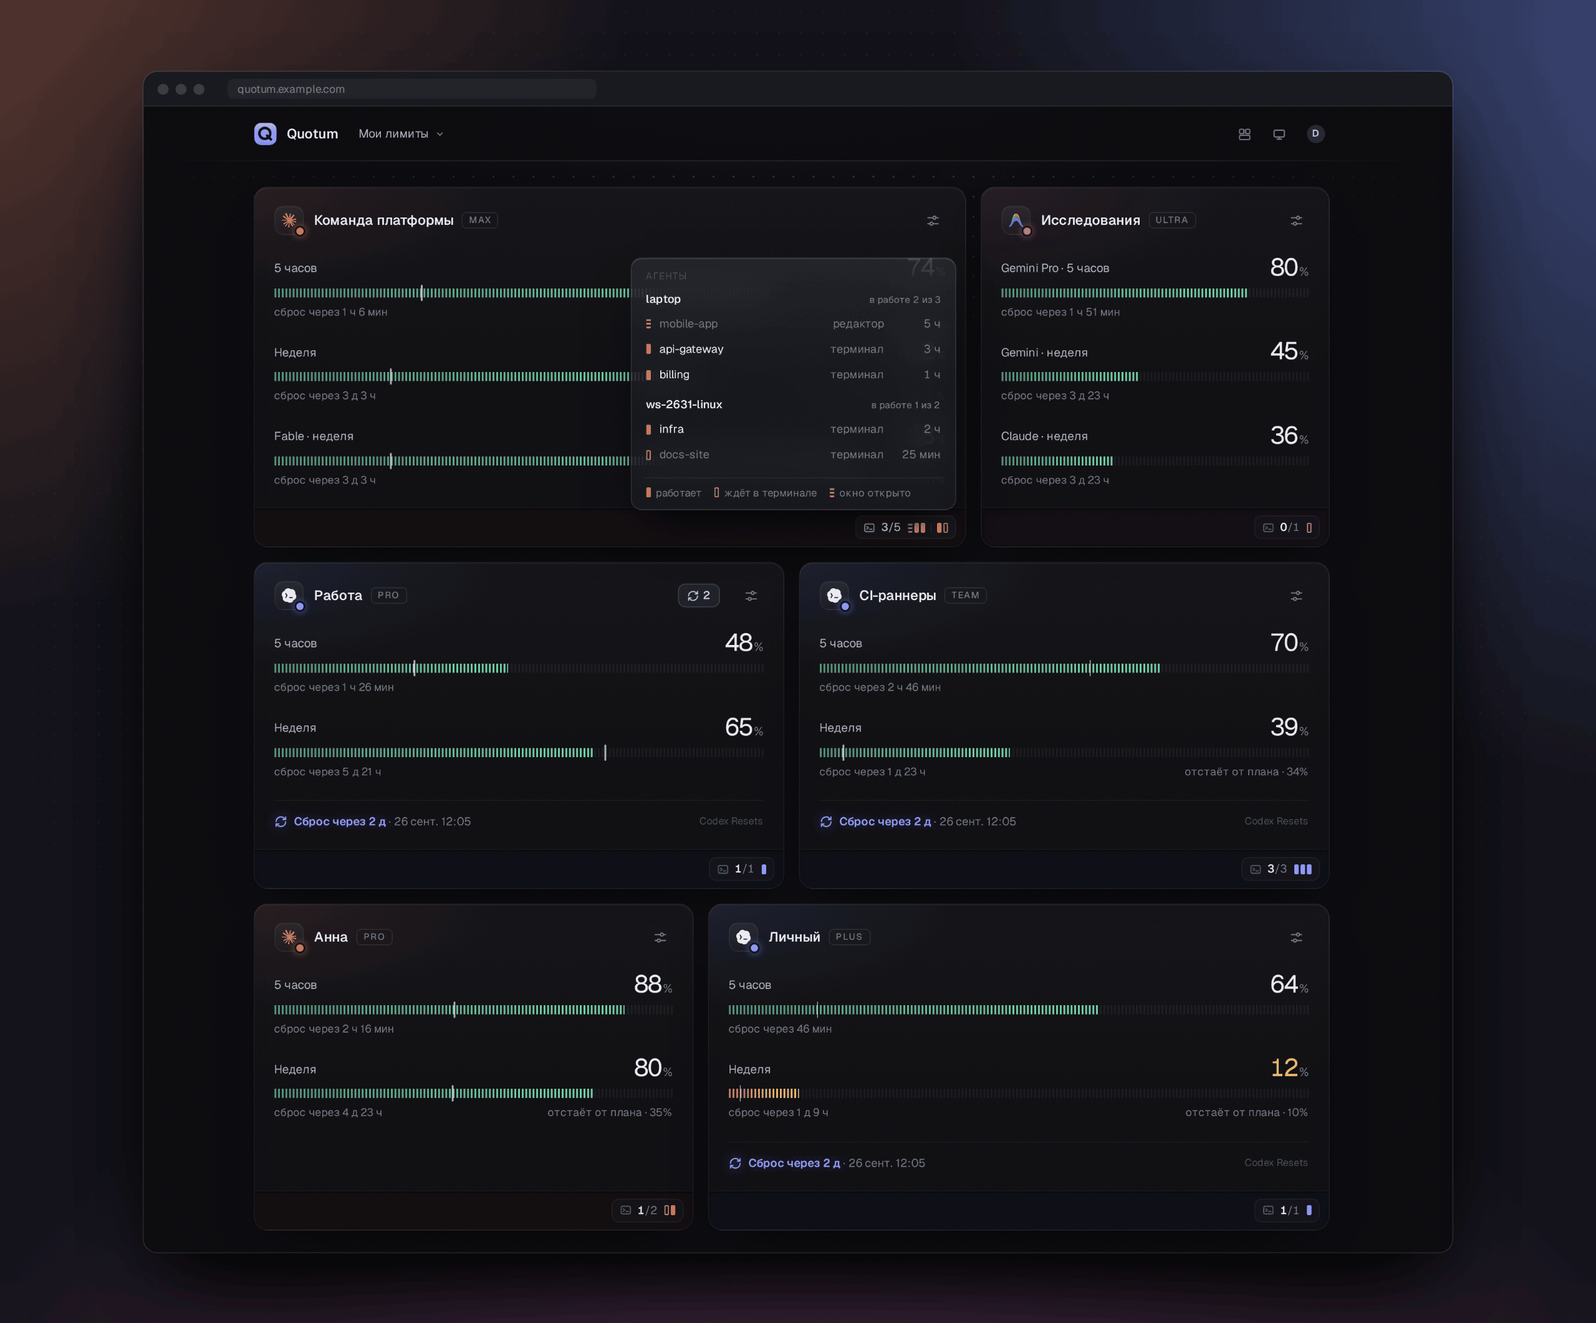
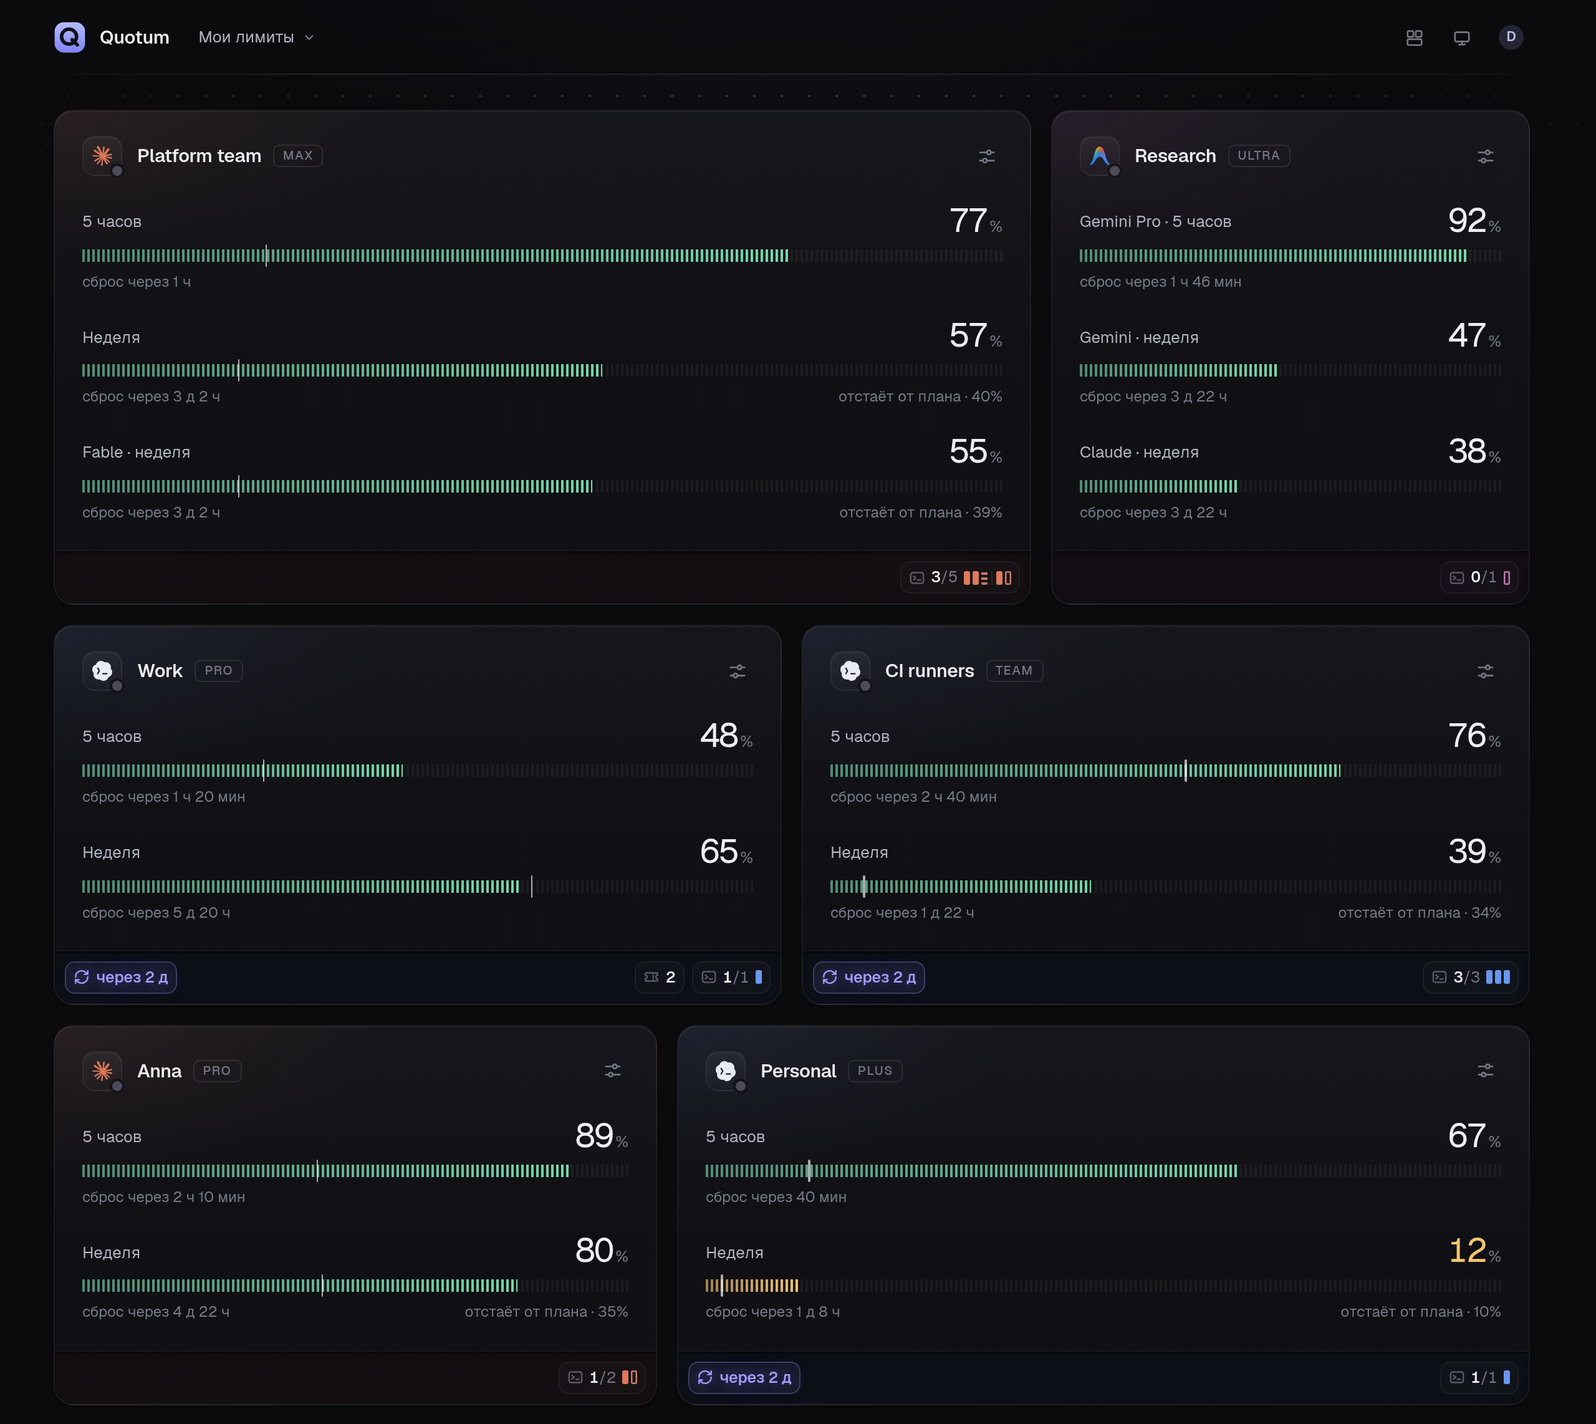
Prepare version 0.4.0 and refresh the release documentation

diff --git a/hub/server/test/schema.test.ts b/hub/server/test/schema.test.ts
@@ -16,6 +16,8 @@ import {Store} from '../store/store.js';
 const RELEASED = [
[4 lines of base64/hex data omitted]
 ];
 
 test('released layout steps never change; new ones come after them', () => {

diff --git a/README.ru.md b/README.ru.md
@@ -138,6 +138,8 @@ Codex         api                  idle     started 25m ago · editor
 
 Интерфейс есть на английском и русском.
 
+![Активность агентов, история лимитов и прогнозы расхода](docs/analytics.ru.png)
+
 ## На что я обращал внимание
 
 Это пет-проект, но мне хотелось инструмент, который не страшно держать запущенным на
@@ -174,11 +176,11 @@ Codex         api                  idle     started 25m ago · editor
   «потраченное». Агент сообщает, когда будет следующий замер, поэтому редкие замеры не
   принимаются за пропуск.
 - **Мало движущихся частей.** У агента девять прямых зависимостей. Хаб — это Fastify и
-  встроенный в Node SQLite, интерфейс — обычный React, около 100 КБ JavaScript в gzip.
+  встроенный в Node SQLite, интерфейс — обычный React, около 140 КБ JavaScript в gzip.
   Телеметрии нет; сам по себе хаб обращается только к двум трекерам сбросов (или к
   указанному вами зеркалу), раз в десять минут, и `QUOTUM_RESETS=off` это выключает.
 - **Описано и проверено.** Протокол между агентом и хабом оформлен как спецификация
-  ([spec/ingest-v1.md](spec/ingest-v1.md)). Около 180 тестов проверяют правила расхода,
+  ([spec/ingest-v1.md](spec/ingest-v1.md)). Тесты проверяют правила расхода,
   сбросы, дежурство, расписание, права, общий доступ, подключение устройств, разбор ответов клиентов
   и переводы. TypeScript строгий, Rust проходит `clippy`.
 
@@ -272,6 +274,23 @@ Linux, macOS и Windows архивом (`quotum-cli-<версия>-<платфо
 [подтверждением сборки](https://docs.github.com/en/actions/security-for-github-actions/using-artifact-attestations)
 (`gh attestation verify <файл> -R padurets/quotum`). **Из исходников:**
 `cd agent && cargo build --release` (Rust 1.85 или новее) даёт `target/release/quotum`.
+
+## Обновление
+
+Перед заменой хаба остановите его и сохраните копию каталога данных (в примерах это
+Docker volume `quotum`). Запустите новый образ с тем же volume: база мигрирует
+автоматически. Для отката нужны старый образ и копия данных до обновления:
+старый хаб откажется открывать более новую схему базы.
+
+При переходе с 0.3 на 0.4 замеры подписок, доски и настройки сохраняются. Прежние суммы
+работы агентов заменяются историей отдельных сессий: время работы и прогнозы на его
+основе будут доступны с момента обновления. История лимитов до обновления остаётся
+на графике.
+
+На каждой машине выполните `quotum update`, затем перезапустите фонового агента через
+`quotum stop` и `quotum start` (или перезапустите его сервис). Для npm используйте
+последнюю версию пакета `quotum`. Сначала обновите хаб: старые агенты по-прежнему
+передают ему замеры, а новые следуют его расписанию.
 
 ## Десктопное приложение
 
@@ -443,25 +462,42 @@ npm (нужны cargo-zigbuild и zig, подробности в самом ск
 
 ### Как выпустить релиз
 
-Поставьте новую версию в `agent/Cargo.toml` (`[workspace.package]`), `desktop/Cargo.toml`
-и `hub/package.json`, обновите lock-файлы, запушьте коммит и повесьте на него тег с описанием релиза в
-сообщении. Если в релизе новый шаг схемы базы, в тот же коммит добавьте его хеш в
-`RELEASED` в `hub/server/test/schema.test.ts`: после этого шаг не меняется.
+Подготовьте ветку релиза и PR в `main`. Поставьте новую версию в `agent/Cargo.toml`
+(`[workspace.package]`), `desktop/Cargo.toml` и `hub/package.json`, затем обновите их
+lock-файлы. Шаблон npm-пакета остаётся на `0.0.0`: `npm/build.mjs` берёт версию
+публикуемых пакетов из манифеста агента. Добавьте хеши новых шагов схемы базы в
+`RELEASED` в `hub/server/test/schema.test.ts`: каждый выпущенный шаг после этого
+не меняется. Переснимите обе картинки README на демо-доске, проверьте инструкцию
+обновления и подготовьте описание релиза вне репозитория.
+
+Например, для подготовки 0.4.0 в этой ветке:
 
 ```sh
-(cd hub && npm version 0.2.0 --no-git-tag-version)   # package.json и package-lock.json
-# agent/Cargo.toml и desktop/Cargo.toml: version = "0.2.0"
-(cd agent && cargo check)                            # Cargo.lock
-(cd desktop && cargo metadata --format-version 1 >/dev/null)   # его Cargo.lock, без сборки
-git commit -am "Version 0.2.0" && git push origin main
-git tag -a v0.2.0 -F notes.md --cleanup=verbatim   # аннотированный, сообщение целиком: описание релиза
-git push origin v0.2.0
+(cd hub && npm version 0.4.0 --no-git-tag-version)
+# agent/Cargo.toml и desktop/Cargo.toml: version = "0.4.0"
+(cd agent && cargo metadata --format-version 1 >/dev/null)
+(cd desktop && cargo metadata --format-version 1 >/dev/null)
+```
+
+Пройдите [полные проверки](CONTRIBUTING.md#checking-a-change), включая бенчмарк
+дашборда, и дождитесь зелёных CI и Desktop. Владелец одобряет PR и вливает его через
+squash merge. Дождитесь проверок получившегося коммита `main`: тег ставится именно
+на него. Только после одобрения владельцем конкретного релиза:
+
+```sh
+git fetch origin
+git switch main
+git pull --ff-only origin main
+git tag -a v0.4.0 -F /path/to/release-notes.md --cleanup=verbatim
+git push origin v0.4.0
 ```
 
 [release.yml](.github/workflows/release.yml) не примет тег без аннотации или с версией,
-которая расходится хоть с одним из шести файлов. Он ещё раз всё проверит, соберёт
-агент под все платформы, опубликует образ хаба и пакеты npm и создаст релиз на GitHub с
-бинарями.
+которая расходится хоть с одним из шести файлов. Сообщение тега становится описанием
+релиза. Workflow ещё раз проверит код, соберёт агент под все платформы, опубликует
+образ хаба и пакеты npm и создаст релиз на GitHub с бинарями. Тег публикует пакеты
+и образы; npm-версию нельзя использовать повторно.
+
 npm принимает пакеты только от этого workflow и без токена (trusted publishing). Новый
 пакет npm, например для новой платформы, один раз публикуется вручную, а потом
 получает доверие командой `node npm/trust.mjs`. npm доверяет репозиторию по имени:

diff --git a/README.md b/README.md
@@ -140,6 +140,8 @@ Codex         api                  idle     started 25m ago · editor
 
 The interface is available in English and Russian.
 
+![Agent activity, remaining limits and spending forecasts](docs/analytics.png)
+
 ## What I paid attention to
 
 It's a pet project, but I wanted a tool I'd be comfortable running on every machine all
@@ -176,12 +178,12 @@ day, not a script thrown together over a weekend. In practice that meant:
   consumption. The agent says when its next measurement is due, so a sparse series isn't
   mistaken for a gap.
 - **Few moving parts.** The agent has nine direct dependencies. The hub is Fastify and
-  the SQLite built into Node, and the UI is plain React with about 100 KB of gzipped
+  the SQLite built into Node, and the UI is plain React with about 140 KB of gzipped
   JavaScript. There is no telemetry; the only requests the hub makes on its own are to
   the two reset trackers (or the mirror you name), every ten minutes, and
   `QUOTUM_RESETS=off` turns them off.
 - **Written down and tested.** The protocol between the agent and the hub is a spec
-  ([spec/ingest-v1.md](spec/ingest-v1.md)). About 180 tests cover the spending rules,
+  ([spec/ingest-v1.md](spec/ingest-v1.md)). Tests cover the spending rules,
   resets, duty, scheduling, permissions, sharing, device pairing, the clients' answers and the
   translations. The TypeScript is strict and the Rust passes `clippy`.
 
@@ -274,6 +276,23 @@ licences) and as a bare binary (`quotum-cli-<platform>`, what the installers and
 [build provenance](https://docs.github.com/en/actions/security-for-github-actions/using-artifact-attestations)
 (`gh attestation verify <file> -R padurets/quotum`). **From source:**
 `cd agent && cargo build --release` (Rust 1.85 or newer) gives `target/release/quotum`.
+
+## Updating
+
+Before replacing the hub, stop it and back up its data directory (the Docker volume
+`quotum` in the examples). Start the new image with that same volume; it migrates the
+database automatically. A rollback needs the old image and the backup from before the
+upgrade: an older hub refuses a newer database layout.
+
+When upgrading from 0.3 to 0.4, subscription measurements, boards and settings remain.
+The old totals of agent work are replaced by per-session history: work time and
+forecasts based on it become available from the upgrade onward. The earlier limit
+history remains on the chart.
+
+On each machine, run `quotum update`, then restart the background agent with
+`quotum stop` and `quotum start` (or restart its service). With npm, use the latest
+`quotum` package. Update the hub first: older agents still deliver measurements to the
+new hub; the new agents follow its measuring schedule.
 
 ## Desktop app
 
@@ -444,29 +463,47 @@ hub's image.
 
 ### Releasing
 
-Set the new version in `agent/Cargo.toml` (`[workspace.package]`), `desktop/Cargo.toml`
-and `hub/package.json`, let the lock files follow, push the commit, then tag it with the release notes as the
-tag's message. A release that brings a new database layout step also adds its hash to
-`RELEASED` in `hub/server/test/schema.test.ts` in that commit: from then on the step
-never changes.
+Prepare a release branch and a pull request into `main`. Set the new version in
+`agent/Cargo.toml` (`[workspace.package]`), `desktop/Cargo.toml` and `hub/package.json`,
+then update their lock files. The npm package template stays at `0.0.0`:
+`npm/build.mjs` sets the published packages' version from the agent's manifest.
+Add the hashes of any new database layout steps to `RELEASED` in
+`hub/server/test/schema.test.ts`; every step shipped by a release is frozen.
+Refresh both README screenshots from the demo board, check the upgrade instructions
+and prepare the release notes outside the repository.
+
+For example, to prepare 0.4.0 on that branch:
 
 ```sh
-(cd hub && npm version 0.2.0 --no-git-tag-version)   # package.json and package-lock.json
-# agent/Cargo.toml and desktop/Cargo.toml: version = "0.2.0"
-(cd agent && cargo check)                            # Cargo.lock
-(cd desktop && cargo metadata --format-version 1 >/dev/null)   # its Cargo.lock, with no build
-git commit -am "Version 0.2.0" && git push origin main
-git tag -a v0.2.0 -F notes.md --cleanup=verbatim   # annotated, its message kept whole: the release notes
-git push origin v0.2.0
+(cd hub && npm version 0.4.0 --no-git-tag-version)
+# agent/Cargo.toml and desktop/Cargo.toml: version = "0.4.0"
+(cd agent && cargo metadata --format-version 1 >/dev/null)
+(cd desktop && cargo metadata --format-version 1 >/dev/null)
+```
+
+Run the [full checks](CONTRIBUTING.md#checking-a-change), including the dashboard
+benchmark, and wait for CI and Desktop checks. The maintainer approves and squash-merges
+the pull request. Wait for the checks on the resulting `main` commit too: that is the
+commit to tag. Only after the maintainer approves that specific release:
+
+```sh
+git fetch origin
+git switch main
+git pull --ff-only origin main
+git tag -a v0.4.0 -F /path/to/release-notes.md --cleanup=verbatim
+git push origin v0.4.0
 ```
 
 [release.yml](.github/workflows/release.yml) refuses a tag that is not annotated or
-whose version differs from any of those six files. It checks everything again, builds
-the agent for every platform, publishes the hub's image and the npm packages, and
-creates the GitHub release with the binaries. npm accepts the packages from that workflow alone,
-without a token (trusted publishing). A new npm package, for a new platform, is
-published once by hand and then trusted with `node npm/trust.mjs`. npm trusts the
-repository by its name: after renaming it, run that again, and it replaces the old trusts.
+whose version differs from any of those six files. The tag's message becomes the
+release notes. The workflow checks the code again, builds the agent for every platform,
+publishes the hub's image and the npm packages, and creates the GitHub release with
+the binaries. A tag publishes packages and images; an npm version cannot be reused.
+
+npm accepts the packages from that workflow alone, without a token (trusted publishing).
+A new npm package, for a new platform, is published once by hand and then trusted with
+`node npm/trust.mjs`. npm trusts the repository by its name: after renaming it, run that
+again, and it replaces the old trusts.
 
 ### Adding a language
 

diff --git a/CONTRIBUTING.md b/CONTRIBUTING.md
@@ -6,9 +6,9 @@ fix, open an issue first so we can agree on the approach before you spend time o
 ## Checking a change
 
 ```sh
-cd hub && npm ci && npm run typecheck && npm test && npm run build
-cd agent && cargo fmt --check && cargo clippy --all-targets -- -D warnings && cargo test
-node desktop/prepare.mjs && cd desktop && cargo fmt --check && cargo clippy --all-targets -- -D warnings && cargo test
+(cd hub && npm ci && npm run typecheck && npm test && npm run build)
+(cd agent && cargo fmt --check && cargo clippy --all-targets --locked -- -D warnings && cargo test --locked)
+node desktop/prepare.mjs && (cd desktop && cargo fmt --check && cargo clippy --all-targets --locked -- -D warnings && cargo test --locked)
 ```
 
 CI runs the same on every push, the agent on Linux, macOS and Windows. `npm start` in
@@ -86,6 +86,13 @@ A new state of the board gets an entry in the catalogue, with the codes it shows
 `expect` (the file's header explains them): `npm test` then checks it holds, and it is
 on the board for the next person. `npm run demo -- --still` keeps the board still:
 nothing is measured after the start, and no card goes stale for three hours.
+
+For README screenshots, use `npm run demo -- showcase --still`. Capture the cards and
+the analytics separately in English and Russian, with the same viewport and preferences.
+Keep a weekly window with its plan, forecast and a forecast label at the chart’s right
+edge in view. Update `docs/dashboard.png`, `docs/dashboard.ru.png`, `docs/analytics.png`
+and `docs/analytics.ru.png`, and refresh `docs/social-preview.png` with the current board.
+Use only the demo’s synthetic accounts and machines.
 
 `npm run bench` (after `npm run build`) runs such a still demo, opens Ana's board in
 headless Chrome and holds it to the budget in `hub/bench/budget.ts`: for two minutes
